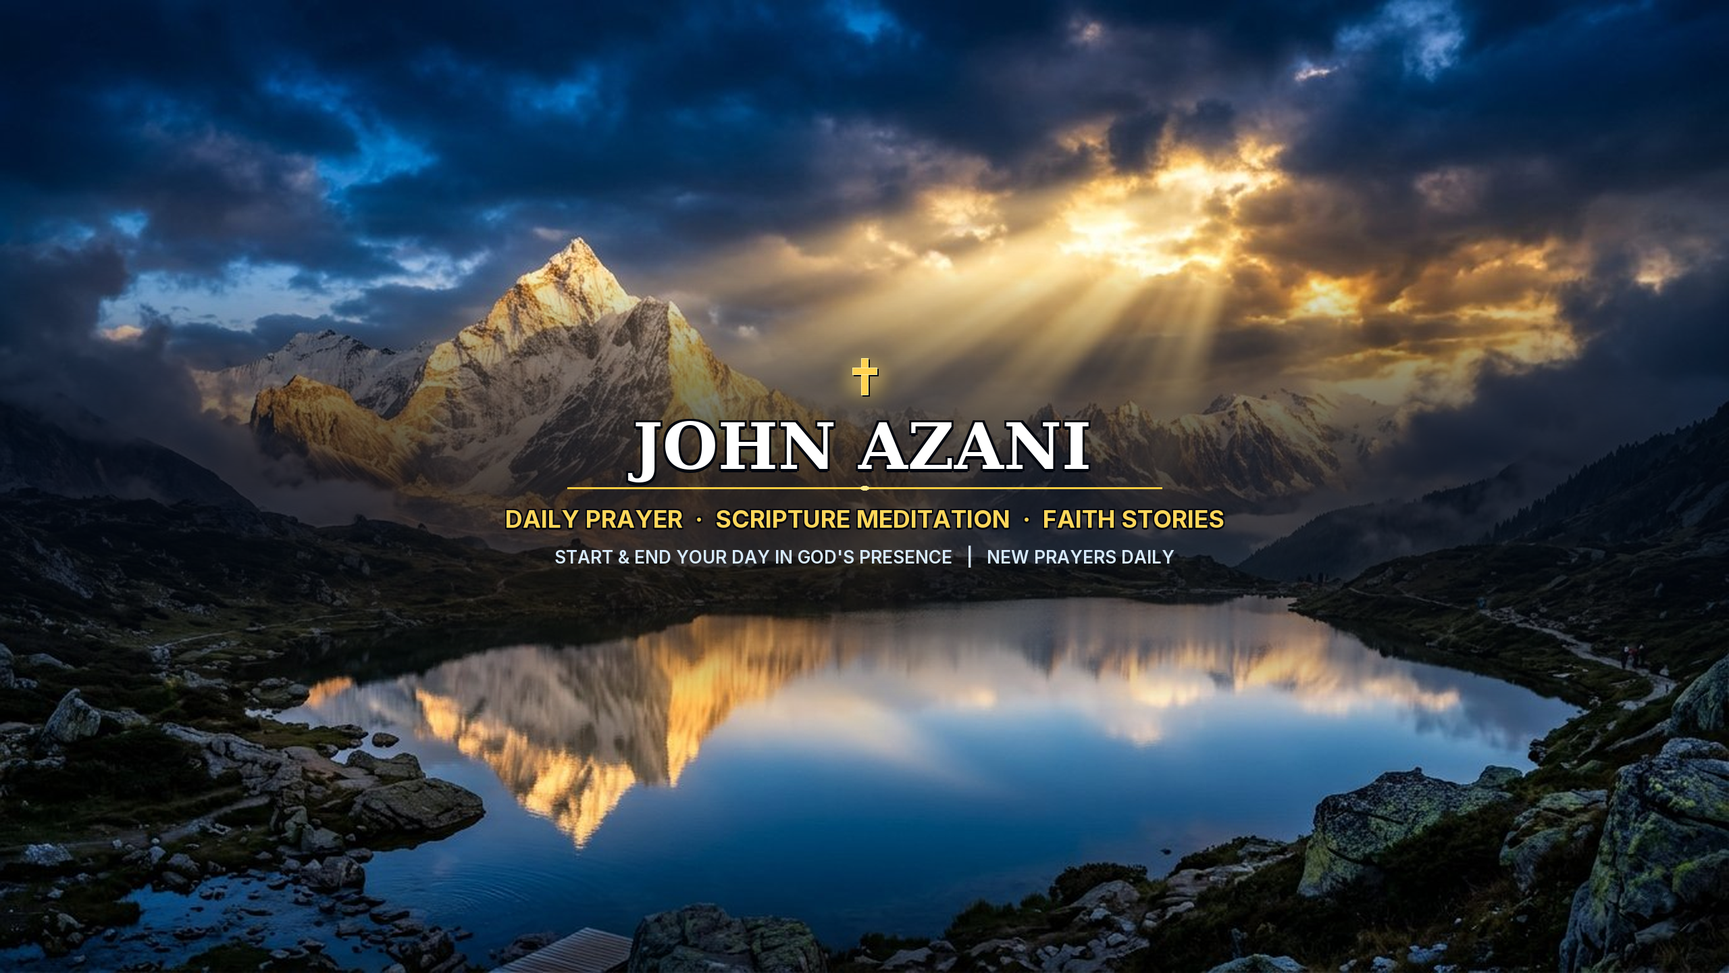
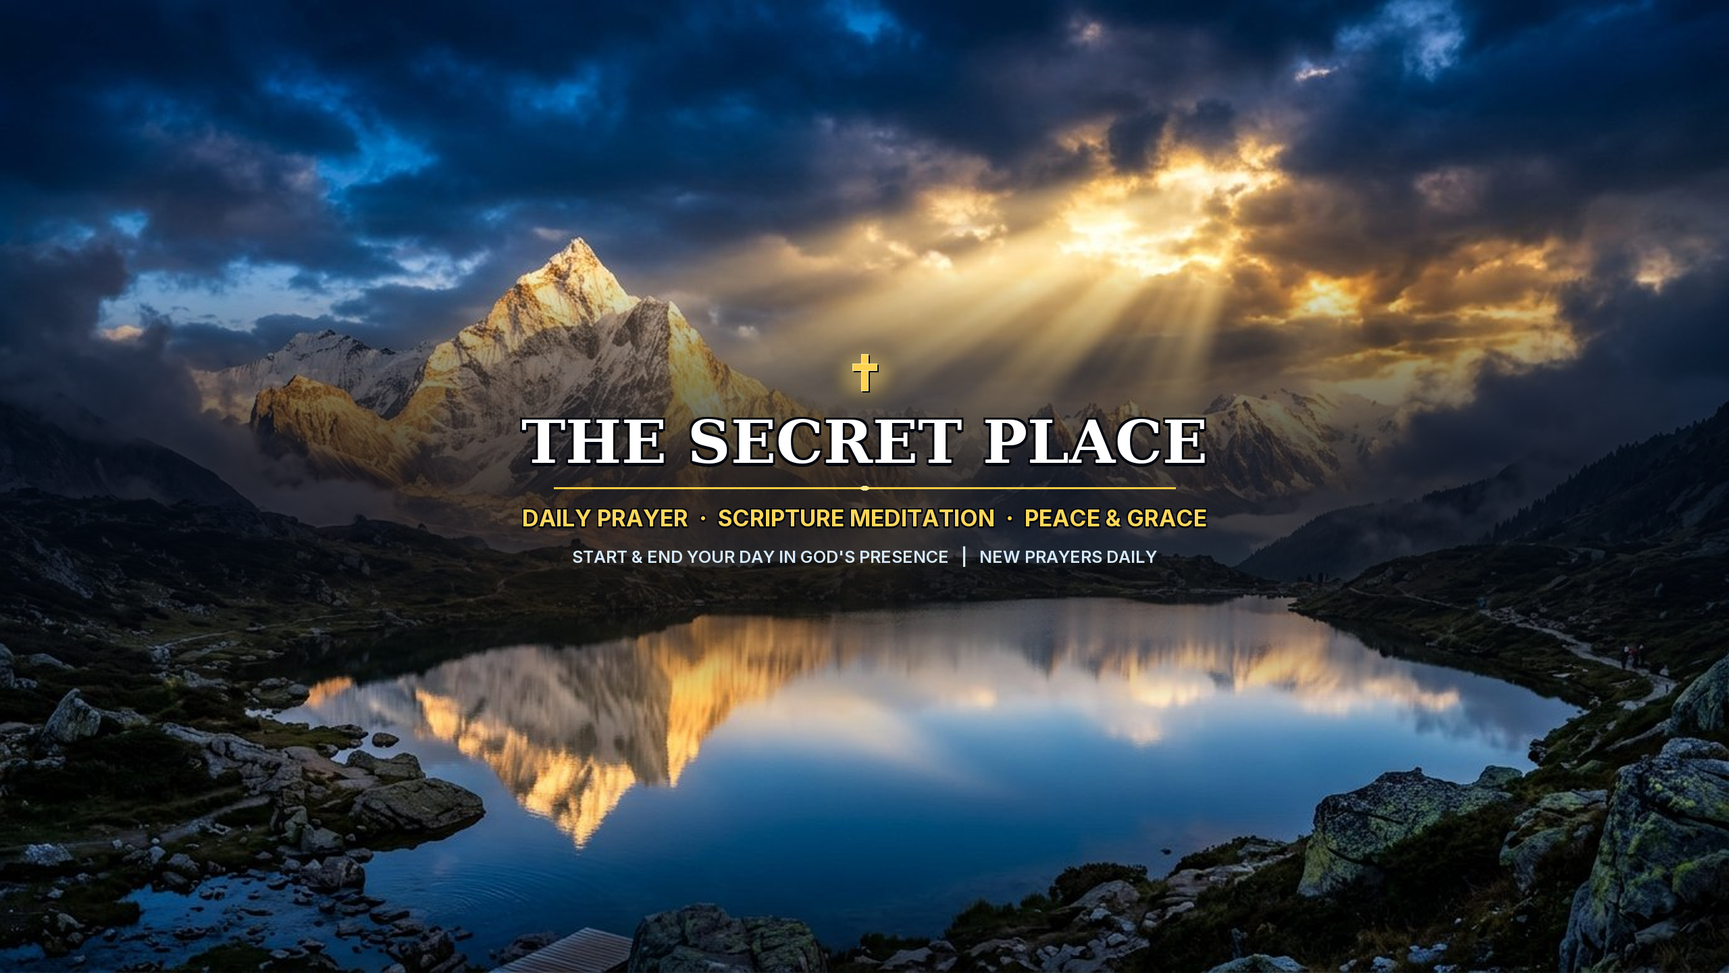
feat(branding): completely faceless prayer channel brand kit (zero personal name)

Changed region(s): [[0.2812, 0.4062, 0.7188, 0.5938]]

diff --git a/docs/index.html b/docs/index.html
@@ -3,7 +3,7 @@
 <head>
 <meta charset="utf-8">
 <meta name="viewport" content="width=device-width, initial-scale=1">
-<title>John Azani — Channel Branding & Production Studio</title>
+<title>The Secret Place — Faceless Prayer & Scripture Studio</title>
 <style>
   :root { color-scheme: dark; }
   body { margin: 0; font-family: system-ui, -apple-system, BlinkMacSystemFont, "Segoe UI", Roboto, sans-serif; background: #030a18; color: #eef4ff; }
@@ -28,26 +28,33 @@
 </head>
 <body>
 <div class="wrap">
-  <span class="badge">Official Brand Kit</span>
-  <h1>John Azani | Daily Prayer & Faith Studio</h1>
-  <p class="sub">Rebranded editorial channel identity for <strong>@JohnAzani</strong>: biblically grounded daily prayer, peaceful scripture meditation, and faith documentaries engineered for sustainable YouTube Partner Program monetization.</p>
+  <span class="badge">100% Faceless Brand Kit</span>
+  <h1>The Secret Place | Daily Prayer & Scripture Studio</h1>
+  <p class="sub">Completely faceless, reverent channel identity: biblically grounded daily prayer, peaceful scripture meditation, and faith documentaries engineered for sustainable YouTube Partner Program monetization (zero personal names).</p>
 
-  <h2>1. Official YouTube Channel Art</h2>
+  <h2>1. Official YouTube Channel Art (Faceless)</h2>
   <div class="row">
     <section class="card wide">
-      <img class="banner-preview" src="docs/media/john-azani-prayer-channel-banner.png" alt="John Azani Channel Banner — Daily Prayer, Scripture Meditation, Faith Stories">
-      <p class="label">YOUTUBE CHANNEL BANNER (2560 × 1440 px)</p>
-      <p class="meta">Fully verified for TV, desktop, and mobile safe zone. Text and golden cross stay perfectly centered on mobile screens.</p>
-      <a class="download-btn" href="docs/media/john-azani-prayer-channel-banner.png" download="john-azani-prayer-channel-banner.png">Download Banner (PNG)</a>
+      <img class="banner-preview" src="docs/media/channel-prayer-banner.png" alt="The Secret Place Channel Banner — Daily Prayer, Scripture Meditation, Peace & Grace">
+      <p class="label">PRIMARY BANNER: THE SECRET PLACE (2560 × 1440 px)</p>
+      <p class="meta">Inspired by Psalm 91:1. Fully verified mobile-safe zone (1546 × 423 px). Text and golden cross stay perfectly centered on phones.</p>
+      <a class="download-btn" href="docs/media/channel-prayer-banner.png" download="the-secret-place-channel-banner.png">Download Banner: The Secret Place</a>
+    </section>
+
+    <section class="card wide">
+      <img class="banner-preview" src="docs/media/channel-prayer-banner-sanctuary.png" alt="Sanctuary of Prayer Channel Banner">
+      <p class="label">ALTERNATIVE BANNER: SANCTUARY OF PRAYER (2560 × 1440 px)</p>
+      <p class="meta">Clean sanctuary branding with the same celestial mountain sunrise and safe margins.</p>
+      <a class="download-btn" href="docs/media/channel-prayer-banner-sanctuary.png" download="sanctuary-of-prayer-channel-banner.png">Download Banner: Sanctuary of Prayer</a>
     </section>
 
     <section class="card">
-      <p class="label">PROFILE AVATAR (800 × 800 px)</p>
-      <p class="meta">Sacred golden cross and Holy Bible seal on deep sapphire blue. Circular-crop verified.</p>
+      <p class="label">FACELESS PROFILE AVATAR (800 × 800 px)</p>
+      <p class="meta">Sacred golden cross and Holy Bible seal on deep sapphire blue. Circular-crop verified (no name, 100% faceless).</p>
       <div class="avatar-row">
-        <img class="avatar-img" src="docs/media/john-azani-prayer-channel-avatar.png" alt="John Azani Profile Picture">
+        <img class="avatar-img" src="docs/media/channel-prayer-avatar.png" alt="Faceless Channel Profile Picture">
         <div>
-          <a class="download-btn" href="docs/media/john-azani-prayer-channel-avatar.png" download="john-azani-prayer-channel-avatar.png">Download Avatar</a>
+          <a class="download-btn" href="docs/media/channel-prayer-avatar.png" download="prayer-channel-avatar.png">Download Avatar</a>
         </div>
       </div>
     </section>
@@ -56,9 +63,9 @@
       <p class="label">VIDEO WATERMARK (150 × 150 px)</p>
       <p class="meta">Transparent background subscribe badge for the bottom-right corner of all videos.</p>
       <div class="avatar-row">
-        <img class="watermark-img" src="docs/media/john-azani-prayer-channel-watermark.png" alt="John Azani Video Watermark">
+        <img class="watermark-img" src="docs/media/channel-prayer-watermark.png" alt="Channel Video Watermark">
         <div>
-          <a class="download-btn" href="docs/media/john-azani-prayer-channel-watermark.png" download="john-azani-prayer-channel-watermark.png">Download Watermark</a>
+          <a class="download-btn" href="docs/media/channel-prayer-watermark.png" download="prayer-channel-watermark.png">Download Watermark</a>
         </div>
       </div>
     </section>
@@ -67,7 +74,7 @@
   <h2>2. YouTube Studio SEO Description ("About" Page)</h2>
   <section class="card wide">
     <p class="meta">Copy and paste this into <strong>YouTube Studio &rarr; Customization &rarr; Basic info &rarr; Description</strong>:</p>
-    <div class="copy-box">Welcome to John Azani — a sacred space dedicated to helping you start and end every day in the peace and presence of God.
+    <div class="copy-box">Welcome to The Secret Place — a sacred sanctuary dedicated to helping you start and end every day in the peace and presence of God.
 
 Here, you will find powerful daily Christian prayers, deep scripture meditations, peaceful bedtime Bible readings, and inspiring stories of faith. Whether you are facing anxiety, walking through a difficult season, or simply seeking spiritual renewal, our mission is to anchor your heart in God's living Word.
 
@@ -77,20 +84,20 @@ Here, you will find powerful daily Christian prayers, deep scripture meditations
 • Peaceful Christian Sleep Meditations & Scripture streams to quiet your mind before bed
 • Deep Dives into Biblical Wisdom and the life-changing promises of Jesus Christ
 
-📖 "Do not be anxious about anything, but in every situation, by prayer and petition, with thanksgiving, present your requests to God. And the peace of God, which transcends all understanding, will guard your hearts and your minds in Christ Jesus." — Philippians 4:6-7
+📖 "He who dwells in the secret place of the Most High shall abide under the shadow of the Almighty. I will say of the Lord, 'He is my refuge and my fortress; my God, in Him I will trust.'" — Psalm 91:1-2
 
-🔔 Subscribe and join our growing daily prayer family. Turn on notifications so you never miss a morning or evening prayer.
+🔔 Subscribe and join our daily prayer community. Turn on notifications so you never miss a morning or evening prayer.
 
-🙏 PRAYER REQUESTS & CONTACT:
-Have a personal prayer request? Leave a comment on our latest video, or email our prayer community at:
-prayer@johnazani.com
+🙏 PRAYER REQUESTS & COMMUNITY:
+Have a personal prayer request? Leave a comment on our latest video, or email our prayer team at:
+contact@thesecretplacesanctuary.com
 
 God bless you, and may His peace surround you today.</div>
   </section>
 
   <h2>3. Channel Keywords (Settings &rarr; Channel &rarr; Basic Info)</h2>
   <section class="card wide">
-    <div class="copy-box">John Azani, Christian Prayer, Daily Prayer, Morning Prayer, Bedtime Prayer, Psalm 91 Prayer, Scripture Meditation, Christian Meditation, Bible Verses for Sleep, Powerful Prayer, Prayer for Healing, Prayer for Protection, Deliverance Prayer, Christian Motivation, Faith in God, Jesus Christ, Holy Spirit, Peaceful Sleep Bible Verses, Biblical Wisdom, Christian Encouragement</div>
+    <div class="copy-box">The Secret Place, Christian Prayer, Daily Prayer, Morning Prayer, Bedtime Prayer, Psalm 91 Prayer, Scripture Meditation, Christian Meditation, Bible Verses for Sleep, Powerful Prayer, Prayer for Healing, Prayer for Protection, Deliverance Prayer, Christian Motivation, Faith in God, Jesus Christ, Holy Spirit, Peaceful Sleep Bible Verses, Biblical Wisdom, Christian Encouragement, Sanctuary of Prayer</div>
   </section>
 </div>
 </body>

diff --git a/index.html b/index.html
@@ -3,7 +3,7 @@
 <head>
 <meta charset="utf-8">
 <meta name="viewport" content="width=device-width, initial-scale=1">
-<title>John Azani — Channel Branding & Production Studio</title>
+<title>The Secret Place — Faceless Prayer & Scripture Studio</title>
 <style>
   :root { color-scheme: dark; }
   body { margin: 0; font-family: system-ui, -apple-system, BlinkMacSystemFont, "Segoe UI", Roboto, sans-serif; background: #030a18; color: #eef4ff; }
@@ -28,26 +28,33 @@
 </head>
 <body>
 <div class="wrap">
-  <span class="badge">Official Brand Kit</span>
-  <h1>John Azani | Daily Prayer & Faith Studio</h1>
-  <p class="sub">Rebranded editorial channel identity for <strong>@JohnAzani</strong>: biblically grounded daily prayer, peaceful scripture meditation, and faith documentaries engineered for sustainable YouTube Partner Program monetization.</p>
+  <span class="badge">100% Faceless Brand Kit</span>
+  <h1>The Secret Place | Daily Prayer & Scripture Studio</h1>
+  <p class="sub">Completely faceless, reverent channel identity: biblically grounded daily prayer, peaceful scripture meditation, and faith documentaries engineered for sustainable YouTube Partner Program monetization (zero personal names).</p>
 
-  <h2>1. Official YouTube Channel Art</h2>
+  <h2>1. Official YouTube Channel Art (Faceless)</h2>
   <div class="row">
     <section class="card wide">
-      <img class="banner-preview" src="docs/media/john-azani-prayer-channel-banner.png" alt="John Azani Channel Banner — Daily Prayer, Scripture Meditation, Faith Stories">
-      <p class="label">YOUTUBE CHANNEL BANNER (2560 × 1440 px)</p>
-      <p class="meta">Fully verified for TV, desktop, and mobile safe zone. Text and golden cross stay perfectly centered on mobile screens.</p>
-      <a class="download-btn" href="docs/media/john-azani-prayer-channel-banner.png" download="john-azani-prayer-channel-banner.png">Download Banner (PNG)</a>
+      <img class="banner-preview" src="docs/media/channel-prayer-banner.png" alt="The Secret Place Channel Banner — Daily Prayer, Scripture Meditation, Peace & Grace">
+      <p class="label">PRIMARY BANNER: THE SECRET PLACE (2560 × 1440 px)</p>
+      <p class="meta">Inspired by Psalm 91:1. Fully verified mobile-safe zone (1546 × 423 px). Text and golden cross stay perfectly centered on phones.</p>
+      <a class="download-btn" href="docs/media/channel-prayer-banner.png" download="the-secret-place-channel-banner.png">Download Banner: The Secret Place</a>
+    </section>
+
+    <section class="card wide">
+      <img class="banner-preview" src="docs/media/channel-prayer-banner-sanctuary.png" alt="Sanctuary of Prayer Channel Banner">
+      <p class="label">ALTERNATIVE BANNER: SANCTUARY OF PRAYER (2560 × 1440 px)</p>
+      <p class="meta">Clean sanctuary branding with the same celestial mountain sunrise and safe margins.</p>
+      <a class="download-btn" href="docs/media/channel-prayer-banner-sanctuary.png" download="sanctuary-of-prayer-channel-banner.png">Download Banner: Sanctuary of Prayer</a>
     </section>
 
     <section class="card">
-      <p class="label">PROFILE AVATAR (800 × 800 px)</p>
-      <p class="meta">Sacred golden cross and Holy Bible seal on deep sapphire blue. Circular-crop verified.</p>
+      <p class="label">FACELESS PROFILE AVATAR (800 × 800 px)</p>
+      <p class="meta">Sacred golden cross and Holy Bible seal on deep sapphire blue. Circular-crop verified (no name, 100% faceless).</p>
       <div class="avatar-row">
-        <img class="avatar-img" src="docs/media/john-azani-prayer-channel-avatar.png" alt="John Azani Profile Picture">
+        <img class="avatar-img" src="docs/media/channel-prayer-avatar.png" alt="Faceless Channel Profile Picture">
         <div>
-          <a class="download-btn" href="docs/media/john-azani-prayer-channel-avatar.png" download="john-azani-prayer-channel-avatar.png">Download Avatar</a>
+          <a class="download-btn" href="docs/media/channel-prayer-avatar.png" download="prayer-channel-avatar.png">Download Avatar</a>
         </div>
       </div>
     </section>
@@ -56,9 +63,9 @@
       <p class="label">VIDEO WATERMARK (150 × 150 px)</p>
       <p class="meta">Transparent background subscribe badge for the bottom-right corner of all videos.</p>
       <div class="avatar-row">
-        <img class="watermark-img" src="docs/media/john-azani-prayer-channel-watermark.png" alt="John Azani Video Watermark">
+        <img class="watermark-img" src="docs/media/channel-prayer-watermark.png" alt="Channel Video Watermark">
         <div>
-          <a class="download-btn" href="docs/media/john-azani-prayer-channel-watermark.png" download="john-azani-prayer-channel-watermark.png">Download Watermark</a>
+          <a class="download-btn" href="docs/media/channel-prayer-watermark.png" download="prayer-channel-watermark.png">Download Watermark</a>
         </div>
       </div>
     </section>
@@ -67,7 +74,7 @@
   <h2>2. YouTube Studio SEO Description ("About" Page)</h2>
   <section class="card wide">
     <p class="meta">Copy and paste this into <strong>YouTube Studio &rarr; Customization &rarr; Basic info &rarr; Description</strong>:</p>
-    <div class="copy-box">Welcome to John Azani — a sacred space dedicated to helping you start and end every day in the peace and presence of God.
+    <div class="copy-box">Welcome to The Secret Place — a sacred sanctuary dedicated to helping you start and end every day in the peace and presence of God.
 
 Here, you will find powerful daily Christian prayers, deep scripture meditations, peaceful bedtime Bible readings, and inspiring stories of faith. Whether you are facing anxiety, walking through a difficult season, or simply seeking spiritual renewal, our mission is to anchor your heart in God's living Word.
 
@@ -77,20 +84,20 @@ Here, you will find powerful daily Christian prayers, deep scripture meditations
 • Peaceful Christian Sleep Meditations & Scripture streams to quiet your mind before bed
 • Deep Dives into Biblical Wisdom and the life-changing promises of Jesus Christ
 
-📖 "Do not be anxious about anything, but in every situation, by prayer and petition, with thanksgiving, present your requests to God. And the peace of God, which transcends all understanding, will guard your hearts and your minds in Christ Jesus." — Philippians 4:6-7
+📖 "He who dwells in the secret place of the Most High shall abide under the shadow of the Almighty. I will say of the Lord, 'He is my refuge and my fortress; my God, in Him I will trust.'" — Psalm 91:1-2
 
-🔔 Subscribe and join our growing daily prayer family. Turn on notifications so you never miss a morning or evening prayer.
+🔔 Subscribe and join our daily prayer community. Turn on notifications so you never miss a morning or evening prayer.
 
-🙏 PRAYER REQUESTS & CONTACT:
-Have a personal prayer request? Leave a comment on our latest video, or email our prayer community at:
-prayer@johnazani.com
+🙏 PRAYER REQUESTS & COMMUNITY:
+Have a personal prayer request? Leave a comment on our latest video, or email our prayer team at:
+contact@thesecretplacesanctuary.com
 
 God bless you, and may His peace surround you today.</div>
   </section>
 
   <h2>3. Channel Keywords (Settings &rarr; Channel &rarr; Basic Info)</h2>
   <section class="card wide">
-    <div class="copy-box">John Azani, Christian Prayer, Daily Prayer, Morning Prayer, Bedtime Prayer, Psalm 91 Prayer, Scripture Meditation, Christian Meditation, Bible Verses for Sleep, Powerful Prayer, Prayer for Healing, Prayer for Protection, Deliverance Prayer, Christian Motivation, Faith in God, Jesus Christ, Holy Spirit, Peaceful Sleep Bible Verses, Biblical Wisdom, Christian Encouragement</div>
+    <div class="copy-box">The Secret Place, Christian Prayer, Daily Prayer, Morning Prayer, Bedtime Prayer, Psalm 91 Prayer, Scripture Meditation, Christian Meditation, Bible Verses for Sleep, Powerful Prayer, Prayer for Healing, Prayer for Protection, Deliverance Prayer, Christian Motivation, Faith in God, Jesus Christ, Holy Spirit, Peaceful Sleep Bible Verses, Biblical Wisdom, Christian Encouragement, Sanctuary of Prayer</div>
   </section>
 </div>
 </body>

diff --git a/docs/CHANNEL_BRANDING_FAITH_STUDIO.md b/docs/CHANNEL_BRANDING_FAITH_STUDIO.md
@@ -1,18 +1,23 @@
-# John Azani — Faith, Prayer & Scripture Studio
-## Complete Channel Branding & Identity Kit
+# The Secret Place | Daily Prayer & Scripture Studio
+## Complete Faceless Channel Branding & Identity Kit
 
-**Channel Handle:** `@JohnAzani`  
-**Core Purpose:** Inspiring believers and spiritual seekers to start and end their day in God's presence through biblically grounded prayers, peaceful scripture meditation, and faith-building stories.  
+**Primary Brand Name:** **The Secret Place | Daily Prayer & Scripture**  
+*(Alternative Brand: **Sanctuary of Prayer | Daily Christian Devotional**)*  
+**Core Scripture Foundation:** *Psalm 91:1 — "He that dwelleth in the secret place of the most High shall abide under the shadow of the Almighty."*  
+**Channel Format:** 100% Faceless Christian Prayer & Scripture Meditation Studio.  
 **Editorial Standard:** An **Editorial Production Studio** adhering strictly to YouTube's 2026 Partner Program policies (no low-effort AI slop, no repetitious templates, no manipulative spiritual extortion).
 
 ---
 
-## 1. Channel Identity & Names
+## 1. Channel Identity & Naming Options
 
-### Recommended Primary Channel Name:
-> **John Azani | Daily Prayer & Faith**
+### Option A (Recommended — Highest Search Resonance):
+> **The Secret Place | Daily Prayer & Scripture**  
+> **Handle Suggestion:** `@TheSecretPlacePrayer` (or `@SecretPlaceDevotional`)
 
-*(Alternative options for YouTube Studio: `John Azani — Prayer & Scripture` or `John Azani | Christian Meditation & Prayers`)*
+### Option B (Peace & Sanctuary Focus):
+> **Sanctuary of Prayer | Daily Christian Meditation**  
+> **Handle Suggestion:** `@SanctuaryOfPrayer` (or `@DailyPrayerSanctuary`)
 
 ### One-Line Channel Tagline:
 > *"Start and end your day in God's presence."*
@@ -30,7 +35,7 @@
 *Copy and paste this directly into **YouTube Studio → Customization → Basic info → Description**:*
 
 ```text
-Welcome to John Azani — a sacred space dedicated to helping you start and end every day in the peace and presence of God.
+Welcome to The Secret Place — a sacred sanctuary dedicated to helping you start and end every day in the peace and presence of God.
 
 Here, you will find powerful daily Christian prayers, deep scripture meditations, peaceful bedtime Bible readings, and inspiring stories of faith. Whether you are facing anxiety, walking through a difficult season, or simply seeking spiritual renewal, our mission is to anchor your heart in God's living Word.
 
@@ -40,13 +45,13 @@ Here, you will find powerful daily Christian prayers, deep scripture meditations
 • Peaceful Christian Sleep Meditations & Scripture streams to quiet your mind before bed
 • Deep Dives into Biblical Wisdom and the life-changing promises of Jesus Christ
 
-📖 "Do not be anxious about anything, but in every situation, by prayer and petition, with thanksgiving, present your requests to God. And the peace of God, which transcends all understanding, will guard your hearts and your minds in Christ Jesus." — Philippians 4:6-7
+📖 "He who dwells in the secret place of the Most High shall abide under the shadow of the Almighty. I will say of the Lord, 'He is my refuge and my fortress; my God, in Him I will trust.'" — Psalm 91:1-2
 
-🔔 Subscribe and join our growing daily prayer family. Turn on notifications so you never miss a morning or evening prayer.
+🔔 Subscribe and join our daily prayer community. Turn on notifications so you never miss a morning or evening prayer.
 
-🙏 PRAYER REQUESTS & CONTACT:
-Have a personal prayer request? Leave a comment on our latest video, or email our prayer community at:
-prayer@johnazani.com (or your personal business email)
+🙏 PRAYER REQUESTS & COMMUNITY:
+Have a personal prayer request? Leave a comment on our latest video, or email our prayer team at:
+contact@thesecretplacesanctuary.com
 
 God bless you, and may His peace surround you today.
 ```
@@ -58,18 +63,19 @@ God bless you, and may His peace surround you today.
 *Copy and paste these comma-separated keywords into **YouTube Studio → Settings → Channel → Basic info → Keywords**:*
 
 ```text
-John Azani, Christian Prayer, Daily Prayer, Morning Prayer, Bedtime Prayer, Psalm 91 Prayer, Scripture Meditation, Christian Meditation, Bible Verses for Sleep, Powerful Prayer, Prayer for Healing, Prayer for Protection, Deliverance Prayer, Christian Motivation, Faith in God, Jesus Christ, Holy Spirit, Peaceful Sleep Bible Verses, Biblical Wisdom, Christian Encouragement
+The Secret Place, Christian Prayer, Daily Prayer, Morning Prayer, Bedtime Prayer, Psalm 91 Prayer, Scripture Meditation, Christian Meditation, Bible Verses for Sleep, Powerful Prayer, Prayer for Healing, Prayer for Protection, Deliverance Prayer, Christian Motivation, Faith in God, Jesus Christ, Holy Spirit, Peaceful Sleep Bible Verses, Biblical Wisdom, Christian Encouragement, Sanctuary of Prayer
 ```
 
 ---
 
 ## 4. Visual Identity & Brand Assets
 
-| Asset | Specifications | File Location in Workspace | YouTube Studio Location |
+| Asset | Dimensions | Workspace File Location | Where to Upload in YouTube Studio |
 |---|---|---|---|
-| **Channel Banner** | `2560 × 1440 px` (PNG)<br>Central safe area: `1546 × 423 px` | `docs/media/john-azani-prayer-channel-banner.png` | **Customization → Branding → Banner image** |
-| **Profile Picture / Avatar** | `800 × 800 px` (PNG)<br>Circular-crop verified | `docs/media/john-azani-prayer-channel-avatar.png` | **Customization → Branding → Picture** |
-| **Video Watermark** | `150 × 150 px` (PNG)<br>Transparent background badge | `docs/media/john-azani-prayer-channel-watermark.png` | **Customization → Branding → Video watermark** (Display time: *Entire video*) |
+| **Primary Banner (The Secret Place)** | `2560 × 1440 px` (PNG)<br>Central safe area: `1546 × 423 px` | `docs/media/channel-prayer-banner.png` | **Customization → Branding → Banner image** |
+| **Alternative Banner (Sanctuary of Prayer)** | `2560 × 1440 px` (PNG)<br>Central safe area: `1546 × 423 px` | `docs/media/channel-prayer-banner-sanctuary.png` | **Customization → Branding → Banner image** |
+| **Profile Picture / Avatar** | `800 × 800 px` (PNG)<br>Faceless golden cross & Bible seal | `docs/media/channel-prayer-avatar.png` | **Customization → Branding → Picture** |
+| **Video Watermark** | `150 × 150 px` (PNG)<br>Transparent background badge | `docs/media/channel-prayer-watermark.png` | **Customization → Branding → Video watermark** (Display time: *Entire video*) |
 
 ### Color Palette:
 - **Celestial Sapphire:** `#030a18` (Primary background, evokes midnight calm and peace)
@@ -92,7 +98,7 @@ John Azani, Christian Prayer, Daily Prayer, Morning Prayer, Bedtime Prayer, Psal
 * **0:36 – 0:52 (The Pastoral Prayer):**  
   A warm, personal prayer inviting God's peace, protection, and breakthrough.
 * **0:53 – 0:60 (The Engagement CTA):**  
-  *"If you receive this blessing, type AMEN in the comments and share this with someone who needs God's peace today. Subscribe to pray with us tomorrow."*
+  *"If you receive this blessing, type AMEN in the comments and share this with someone who needs God's peace today. Subscribe to join our daily prayer family."*
 
 ### B. The 10–15 Minute Morning Devotional & Prayer (AdSense & Daily Habit Engine)
 * **Part 1 (The Exposition — 2 to 3 mins):**  
